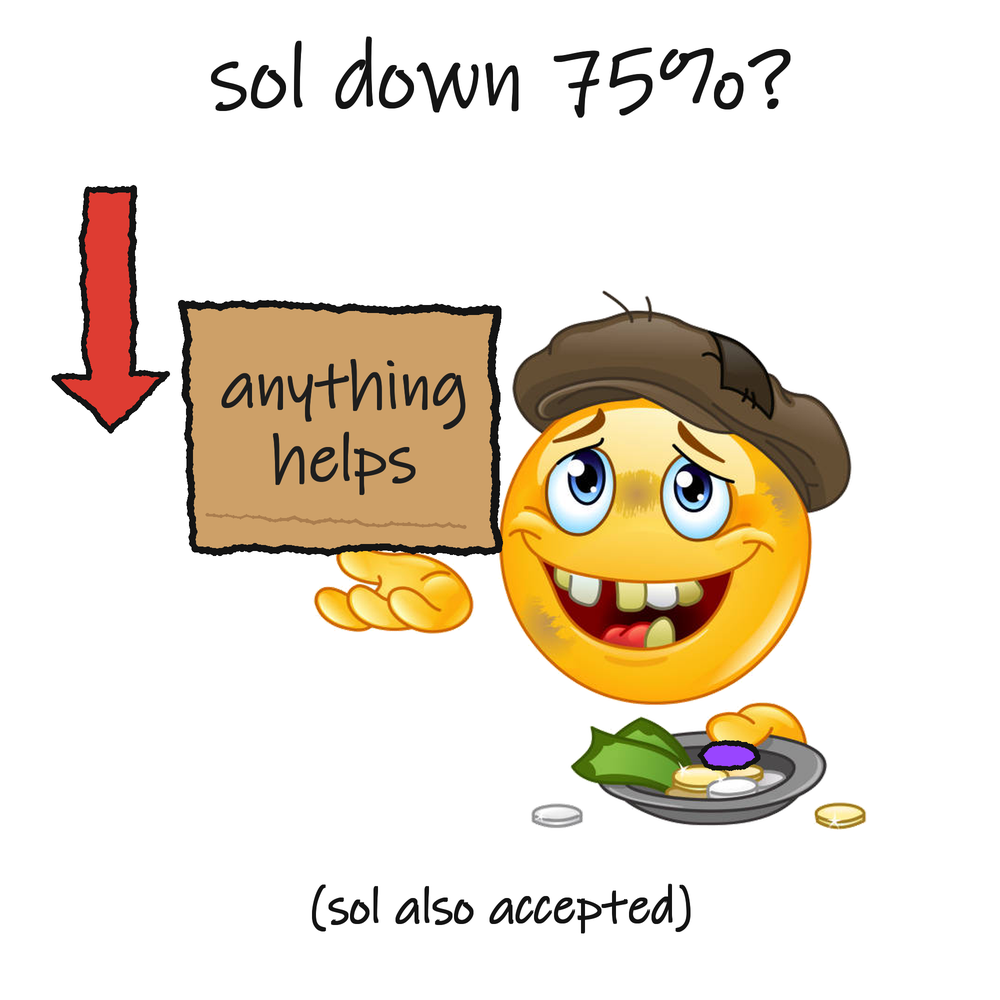
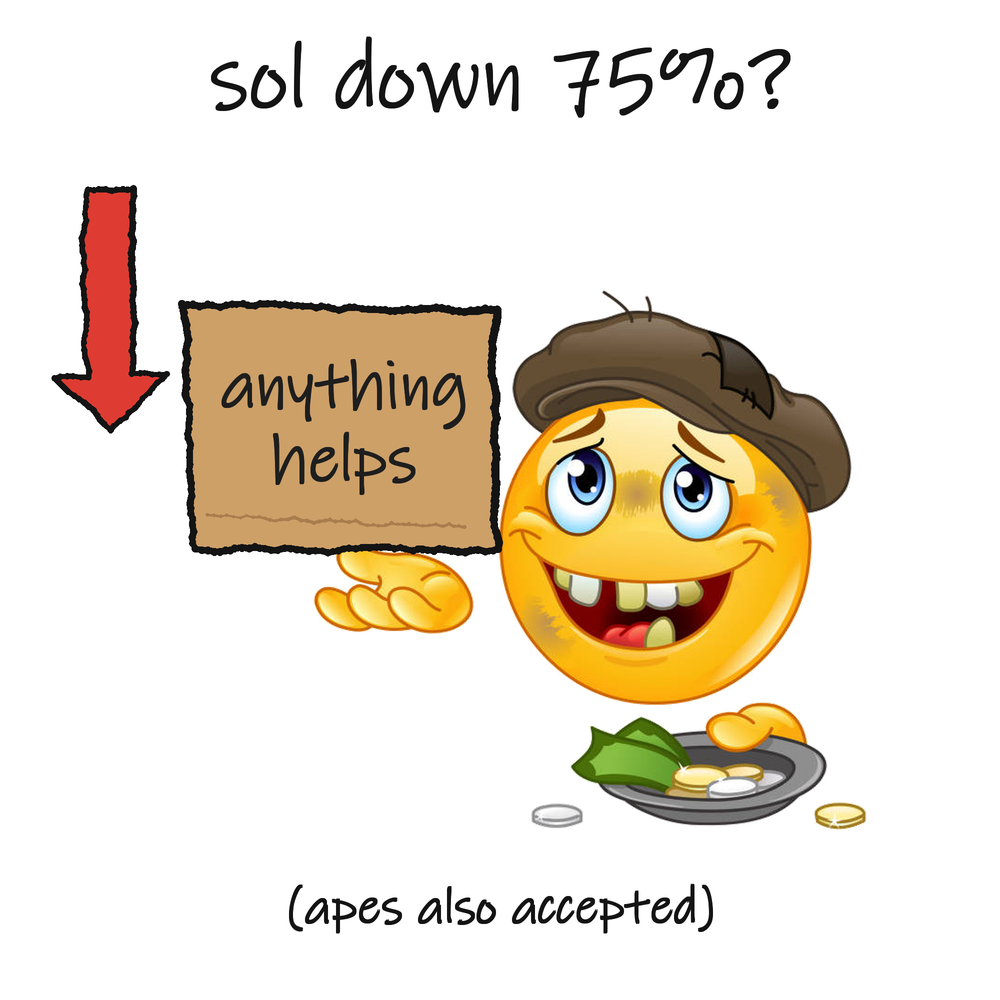
ape-begging memes and stickers

Changed region(s): [[0.279, 0.868, 0.713, 0.93], [0.682, 0.713, 0.775, 0.775]]

diff --git a/config.js b/config.js
@@ -15,17 +15,17 @@ window.BEG = {
     "img/memes/02_lambo_dealer.png",
     "img/memes/03_kol_airdrop.png",
     "img/memes/04_day47_retweet.png",
-    "img/memes/05_chart_vs_plate.png",
+    "img/memes/05_chart_vs_apes.png",
     "img/memes/06_third_rug.png",
     "img/memes/07_sol_down_75.png",
     "img/memes/08_begfi_101.png",
     "img/memes/09_begworkers_unite.png",
-    "img/memes/10_portfolio_vs_plate.png",
+    "img/memes/10_portfolio_vs_apes.png",
     "img/memes/11_fear_greed_13.png",
     "img/memes/12_staking.png",
     "img/memes/13_gm.png",
     "img/memes/14_trading_setup.png",
-    "img/memes/15_airdrop_checker.png",
+    "img/memes/15_holders_checker.png",
     "img/memes/16_roadmap.png"
   ],
   // memes end
@@ -39,9 +39,9 @@ window.BEG = {
     "img/stickers/06_rugged.png",
     "img/stickers/07_begfi.png",
     "img/stickers/08_gm.png",
-    "img/stickers/09_wenairdrop.png",
-    "img/stickers/10_willshill.png",
-    "img/stickers/11_send.png",
+    "img/stickers/09_wenape.png",
+    "img/stickers/10_plsape.png",
+    "img/stickers/11_ape.png",
     "img/stickers/12_serpls.png",
     "img/stickers/13_nfa.png",
     "img/stickers/14_emptyplate.png"
